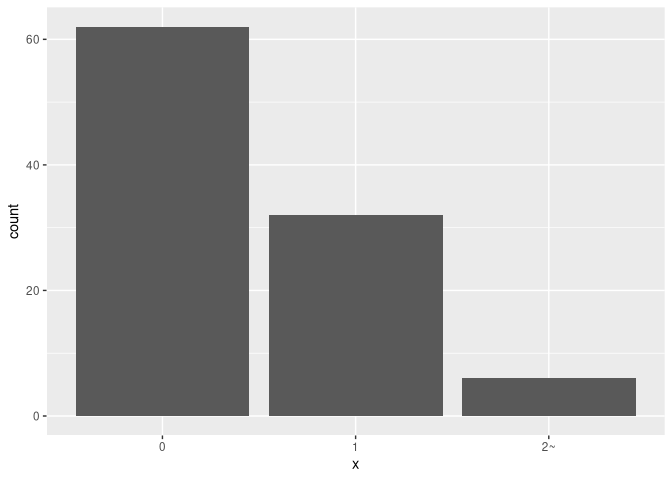
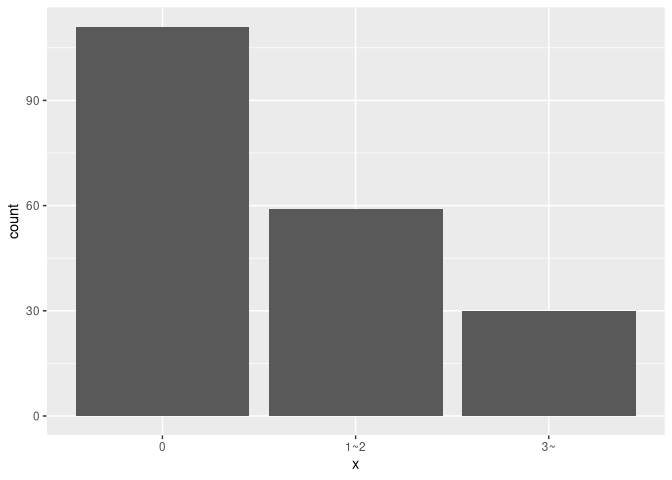
Re-render README

diff --git a/README.md b/README.md
@@ -14,7 +14,9 @@ nicer version of `ggplot2::cut_number()`.
 
 ## Installation
 
-    devtools::install_github("yutannihilation/cutnumberint")
+``` r
+devtools::install_github("yutannihilation/cutnumberint")
+```
 
 ## Example
 
@@ -22,47 +24,63 @@ nicer version of `ggplot2::cut_number()`.
 really neat, but I have two complaints about it. First, it cannot handle
 0-inflated data.
 
-    library(ggplot2)
+``` r
+library(ggplot2)
 
-    set.seed(403)
-    x <- rpois(100, 0.5)
+set.seed(403)
+x <- c(rep(0, 100), rpois(100, 2))
 
-    cut_number(x, n = 3)
-    #> Error: Insufficient data values to produce 3 bins.
+cut_number(x, n = 3)
+#> Error: Insufficient data values to produce 3 bins.
+```
 
 Second one is a general complaint about `cut()`. For integer(-ish) data,
 I want intuitive labels like `6~10` instead of `(5.5,10]`.
 
-    cut_number(1:10, 2)
-    #>  [1] [1,5.5]  [1,5.5]  [1,5.5]  [1,5.5]  [1,5.5]  (5.5,10] (5.5,10] (5.5,10]
-    #>  [9] (5.5,10] (5.5,10]
-    #> Levels: [1,5.5] (5.5,10]
+``` r
+cut_number(1:10, 2)
+#>  [1] [1,5.5]  [1,5.5]  [1,5.5]  [1,5.5]  [1,5.5]  (5.5,10] (5.5,10] (5.5,10]
+#>  [9] (5.5,10] (5.5,10]
+#> Levels: [1,5.5] (5.5,10]
+```
 
 `cut_number_int()` can handle these nicely.
 
-    library(cutnumberint)
+``` r
+library(cutnumberint)
 
-    cut_number_int(x, n = 3)
-    #> Retrying calculation...
-    #> Retrying calculation...
-    #>   [1] 0  0  0  1  0  0  1  1  0  0  1  0  0  0  1  0  1  0  0  0  0  0  1  0  0 
-    #>  [26] 0  0  0  0  1  0  0  2~ 0  0  2~ 2~ 0  0  0  0  0  1  1  0  0  0  0  0  0 
-    #>  [51] 0  0  1  1  0  0  1  1  0  0  0  1  1  0  0  1  0  1  0  1  2~ 1  0  0  1 
-    #>  [76] 0  1  1  1  1  1  0  0  2~ 0  0  1  1  0  0  0  1  0  0  1  0  2~ 1  0  1 
-    #> Levels: 0 1 2~
+cut_number_int(x, n = 3)
+#> Retrying calculation...
+#>   [1] 0   0   0   0   0   0   0   0   0   0   0   0   0   0   0   0   0   0  
+#>  [19] 0   0   0   0   0   0   0   0   0   0   0   0   0   0   0   0   0   0  
+#>  [37] 0   0   0   0   0   0   0   0   0   0   0   0   0   0   0   0   0   0  
+#>  [55] 0   0   0   0   0   0   0   0   0   0   0   0   0   0   0   0   0   0  
+#>  [73] 0   0   0   0   0   0   0   0   0   0   0   0   0   0   0   0   0   0  
+#>  [91] 0   0   0   0   0   0   0   0   0   0   1~2 1~2 1~2 3~  1~2 1~2 3~  1~2
+#> [109] 0   1~2 3~  1~2 1~2 1~2 1~2 1~2 3~  1~2 1~2 1~2 1~2 1~2 3~  1~2 1~2 0  
+#> [127] 1~2 1~2 1~2 1~2 0   1~2 3~  1~2 1~2 3~  3~  1~2 1~2 1~2 1~2 0   1~2 3~ 
+#> [145] 0   1~2 1~2 1~2 1~2 1~2 1~2 0   3~  3~  1~2 1~2 3~  3~  1~2 0   1~2 3~ 
+#> [163] 3~  0   0   1~2 1~2 3~  0   3~  3~  1~2 1~2 1~2 3~  1~2 3~  1~2 1~2 3~ 
+#> [181] 3~  1~2 1~2 3~  1~2 1~2 3~  3~  1~2 1~2 1~2 3~  0   1~2 3~  1~2 3~  3~ 
+#> [199] 1~2 3~ 
+#> Levels: 0 1~2 3~
+```
 
-    d <- data.frame(x = cut_number_int(x, n = 3))
-    #> Retrying calculation...
-    #> Retrying calculation...
-    ggplot(d) +
-      geom_bar(aes(x))
+``` r
+d <- data.frame(x = cut_number_int(x, n = 3))
+#> Retrying calculation...
+ggplot(d) +
+  geom_bar(aes(x))
+```
 
 <img src="man/figures/README-no_error_plot-1.png" width="100%" />
 
-    table(cut_number_int(1:1000, 3))
-    #> 
-    #>   1~334 335~667    668~ 
-    #>     334     333     333
+``` r
+table(cut_number_int(1:1000, 3))
+#> 
+#>   1~334 335~667    668~ 
+#>     334     333     333
+```
 
 ### Caveats
 
@@ -70,10 +88,12 @@ For simplicity, this package handles only the cases where the inflated
 values are located on the lowest bound. If it appears on the middle of
 the data range, `cut_number_int()`.
 
-    cut_number_int(c(0, rep(1, 100), 2:9), 5)
-    #> Error: For simplicity, this function only takes care the cases when the inflated values are on the lowest bounds
+``` r
+cut_number_int(c(0, rep(1, 100), 2:9), 5)
+#> Error: For simplicity, this function only takes care the cases when the inflated values are on the lowest bounds
+```
 
 If you need more powerful functions, probably you can find nicer binning
 packages on CRAN.
 
--   <a href="https://www.r-pkg.org/search.html?q=binning" class="uri">https://www.r-pkg.org/search.html?q=binning</a>
+-   <https://www.r-pkg.org/search.html?q=binning>
